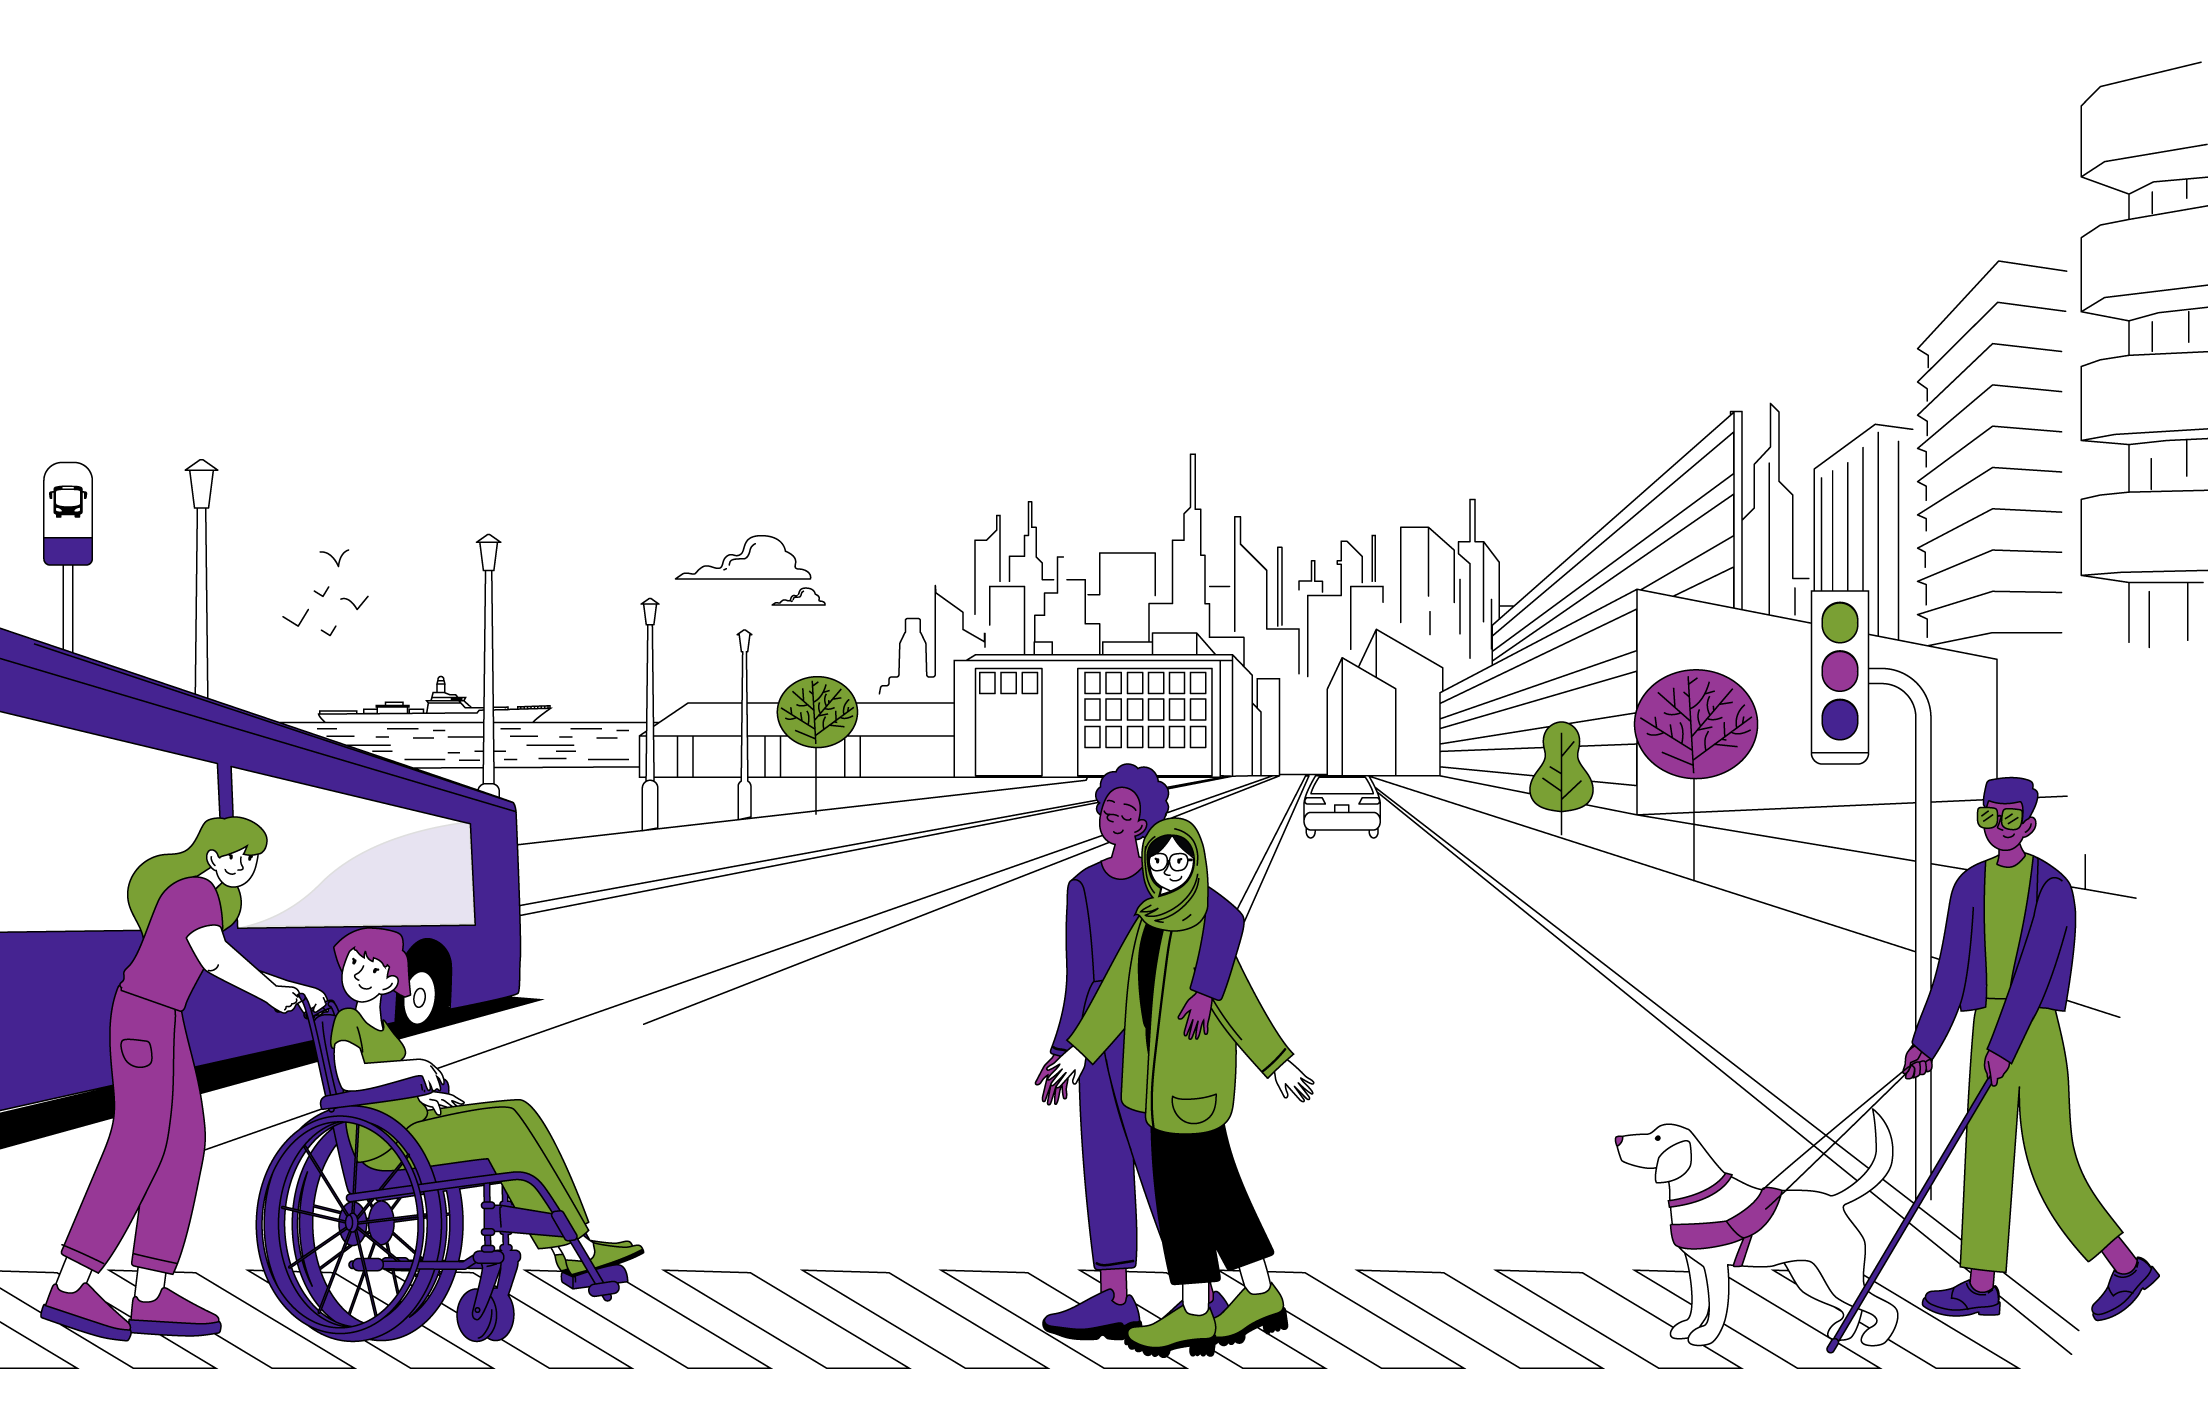
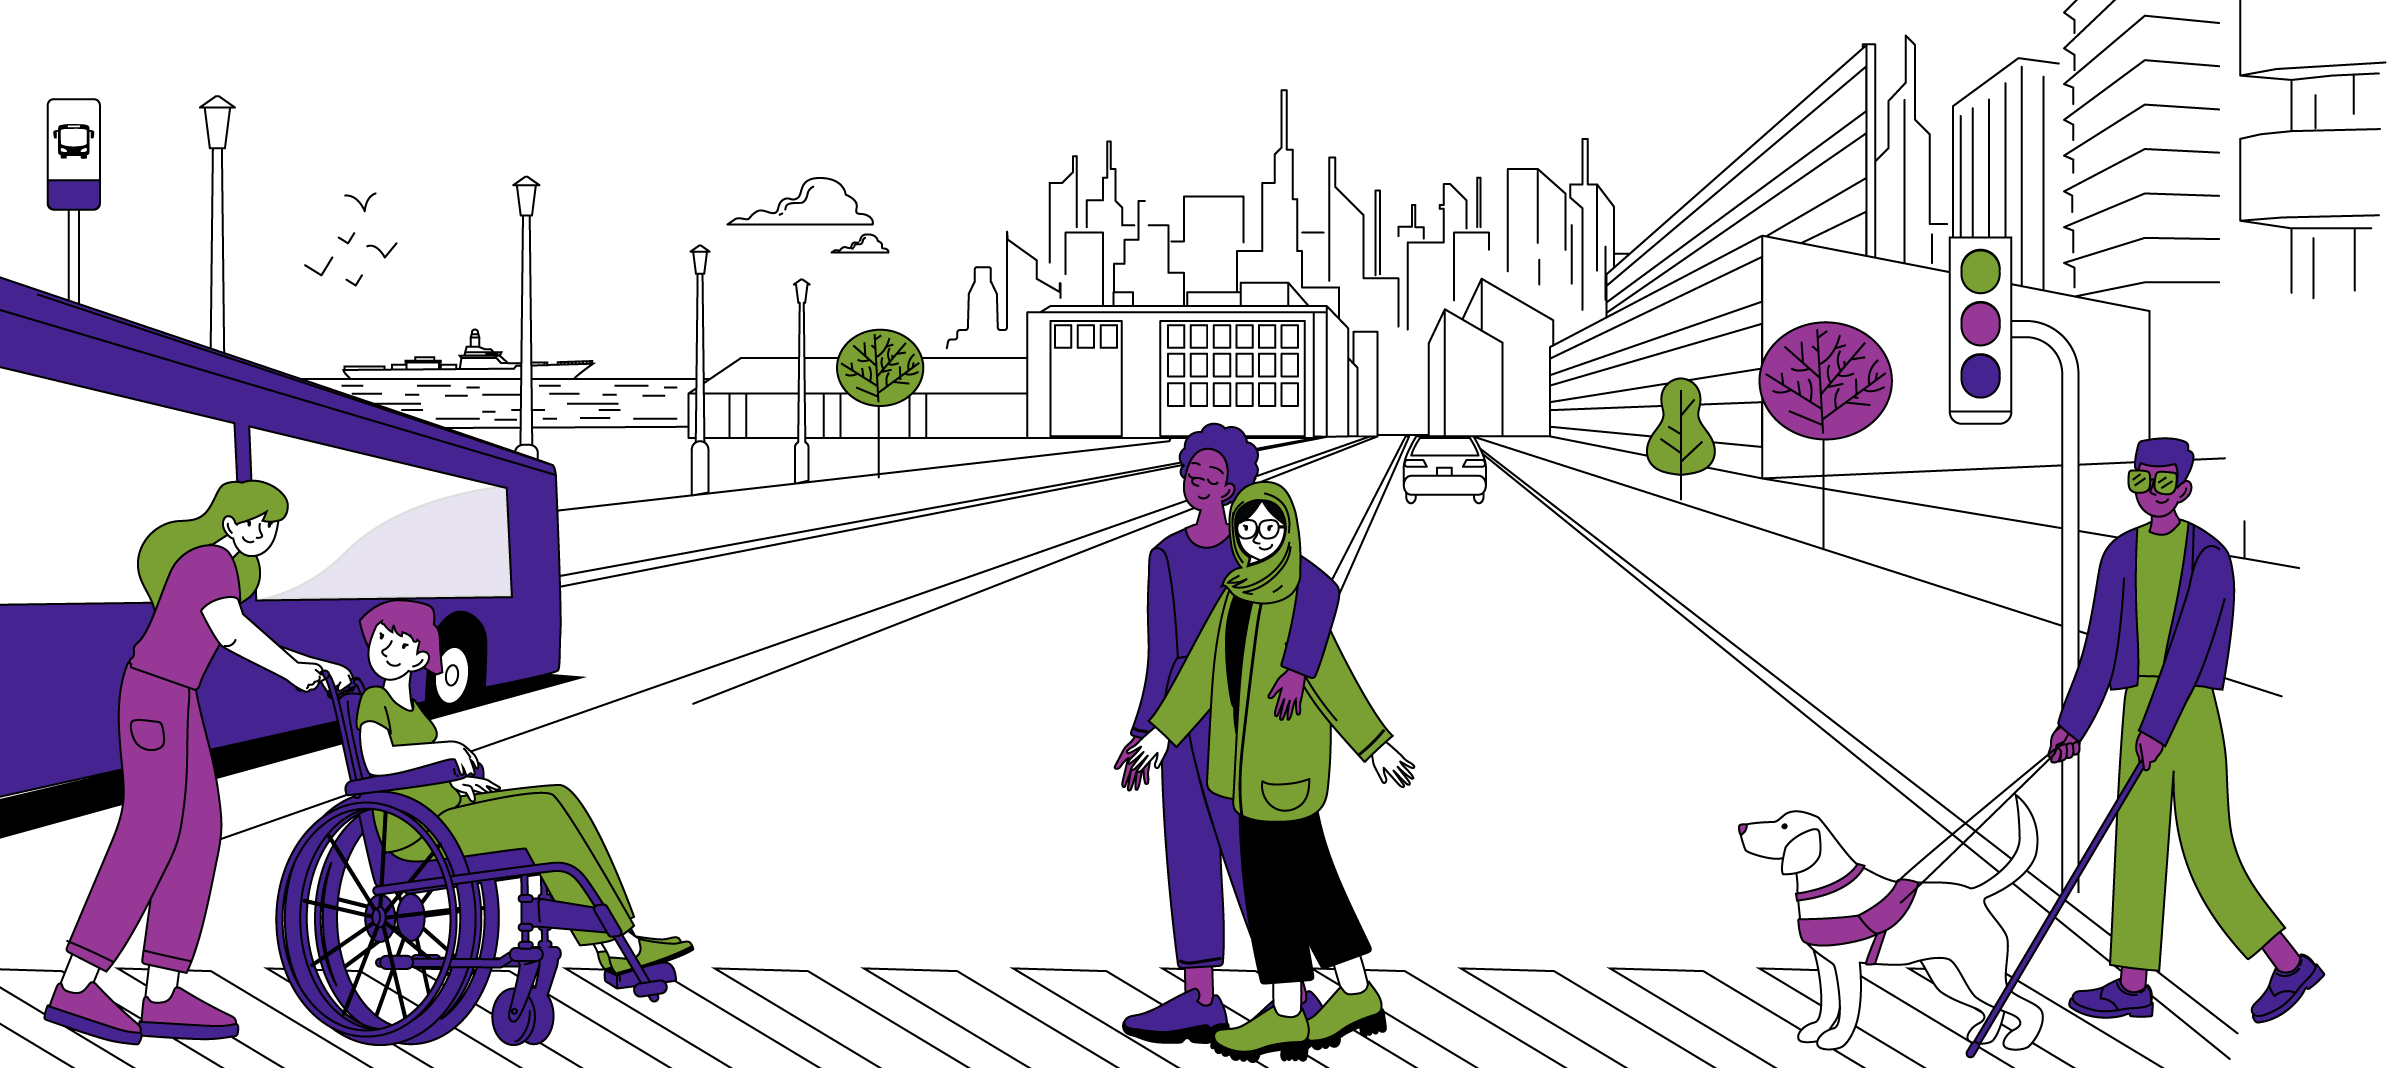
Update featured image, add alt-text for hero/featured images, update blog title and infographic

diff --git a/apps/labs/posts/labs-annual-report-2024.md b/apps/labs/posts/labs-annual-report-2024.md
@@ -1,15 +1,15 @@
 ---
-title: 'Quansight Labs Annual Report 2024: Building for Ecosystem-wide Impact and Sustainability'
+title: 'Quansight Labs Annual Report 2024: Year of focus and execution'
 authors: [pavithra-eswaramoorthy, tania-allard, irina-fumarel, ralf-gommers]
 published: March 19, 2025
 description: 'Presenting our 2024 annual report! Read about our open source project and community highlights, initiatives, and work culture.'
 category: [Community, PyData ecosystem]
 featuredImage:
   src: /posts/labs-annual-report-2024/featured.png
-  alt: ''
+  alt: 'A line-style illustration that depicts an urban street scene with people with disabilities. On the left, a person in a wheelchair is being assisted to cross the street. In the center, two people walk arm-in-arm in the crosswalk. On the right, a person with a cane and a guide dog walks along the sidewalk. The background shows a simplified city skyline with buildings, trees, a traffic light, and a bus stop sign. The image aims to depict accessibility and inclusion in urban environments.'
 hero:
-  imageSrc: /posts/labs-annual-report-2024/featured.png
-imageAlt: ''
+  imageSrc: /posts/labs-annual-report-2024/hero.png
+imageAlt: 'A line-style illustration that depicts an urban street scene with people with disabilities. On the left, a person in a wheelchair is being assisted to cross the street. In the center, two people walk arm-in-arm in the crosswalk. On the right, a person with a cane and a guide dog walks along the sidewalk. The background shows a simplified city skyline with buildings, trees, a traffic light, and a bus stop sign. The image aims to depict accessibility and inclusion in urban environments.'
 ---
 
 We’re pleased to share the Quansight Labs Annual Report 2024!
@@ -32,7 +32,7 @@ The following graphic presents notable highlights from the report.
     alt="At a Glance: Quansight Labs Annual Report 2024
     Section heading: Our Mission
     The mission of Quansight Labs is to sustain and grow community-driven open source projects and ecosystems, with a focus on the core of the PyData stack, as well as digital infrastructure and tools and digital infrastructure for data science, Machine Learning (ML), Artificial Intelligence (AI), and scientific computing.
-    Section heading: Our Projects
+    Section heading: OSS Projects We Contribute To
     We spent 44,547 hours contributing to 40+ open-source projects
     Logos for conda, Hypothesis, Numba, SciPy, JupyterLab, Napari, SymPy,  scikit-learn, Bokeh, IPython,  NumPy, PyO3, Narwhals, Flax, JAX, PyTorch, pandas, Nebari, PyData Sphinx Theme, conda-forge, Polars, OpenBLAS, conda-store, CuPy, Scientific Python, CPython, PyTorch Ignite, Project Jupyter, Pyodide, Consortium for Python Data API Standards, pydata/sparse, stdlib, NumFOCUS’ Diversity & Inclusion in Scientific Computing, Spyder, and the Python Software Foundation.
     Key initiatives over the past year include: Improving performance of free-threaded CPython; Interactivity and internationalization of documentation; Sustaining conda ecosystem for Python packaging; Accelerating sparse array computation; Wrap-up of a 3-year NASA ROSES grant (NumPy, pandas, SciPy, and scikit-learn); PyData Sphinx Theme accessibility audit and design system; DataFrame compatibility with Narwhals.
